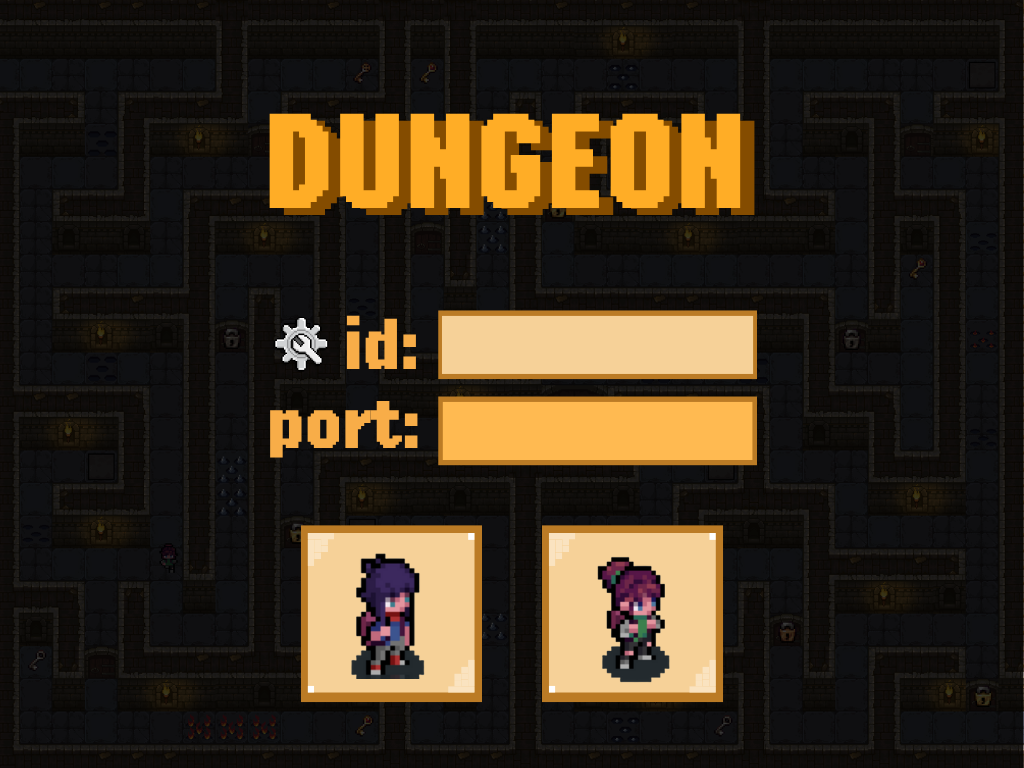
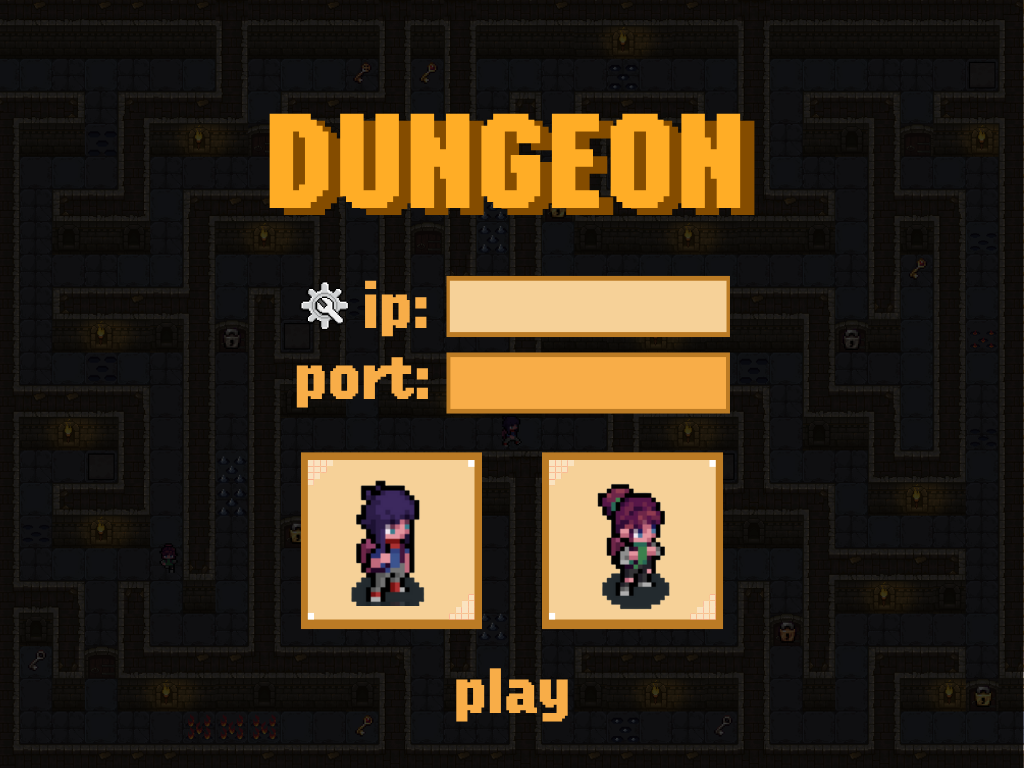
fixed menu stuff

Changed region(s): [[0.25, 0.3438, 0.75, 0.9375]]

diff --git a/MenuFrame.java b/MenuFrame.java
@@ -13,21 +13,20 @@ public class MenuFrame extends JComponent implements MouseMotionListener, MouseL
     public Socket socket;
 
     private BufferedImage staticMenu, hovered_boy, hovered_girl, hovered_id, hovered_port;
-    private Rectangle hoverBoxHost, hoverBoxPort, hoverBoxG, hoverBoxB;
+    private Rectangle hoverBoxHost, hoverBoxPort, hoverBoxG, hoverBoxB, hoverBoxPlay;
     private JTextField hostInput, portInput;
-    private boolean isHoveringHost = false, isHoveringPort = false, 
-                    isHoveringGirl = false, isHoveringBoy = false;
+    private boolean isHoveringHost = false, isHoveringPort = false, isHoveringGirl = false, 
+                    isHoveringBoy = false, isHoveringPlay = false, isBoySelected = false, isGirlSelected = false;
 
     public MenuFrame(){
-        hoverBoxHost = new Rectangle(442,316, 311,58);
-        hoverBoxPort = new Rectangle(442,401, 311,58);
-        hoverBoxB = new Rectangle(308,533, 167,160);
-        hoverBoxG = new Rectangle(548,533, 167,160);
+        hoverBoxHost = new Rectangle(449,280, 277,51);
+        hoverBoxPort = new Rectangle(447,357, 279,52);
+        hoverBoxB = new Rectangle(307,460, 167,160);
+        hoverBoxG = new Rectangle(548,460, 167,160);
+        hoverBoxPlay = new Rectangle(450, 662, 125, 65);
 
         hostInput = new JTextField(8);
         portInput = new JTextField(8);
-        hostInput.setVisible(false);
-        portInput.setVisible(false);
         
         Font font = new Font("SubVarioOTW03-CondFat", Font.PLAIN, 45);
         try {
@@ -49,6 +48,21 @@ public class MenuFrame extends JComponent implements MouseMotionListener, MouseL
         getImages();
         addMouseMotionListener(this);
         addMouseListener(this);
+    }
+
+    public void setUpGUI(){
+        frame = new JFrame("Maze Game");
+        frame.setLayout(null);
+        frame.setPreferredSize(new Dimension(1024, 768));
+        frame.setContentPane(this);
+        frame.add(hostInput);
+        frame.add(portInput);
+        frame.pack();
+        frame.setFocusable(true);
+        frame.requestFocusInWindow();
+        frame.setDefaultCloseOperation(JFrame.EXIT_ON_CLOSE);
+        frame.setLocationRelativeTo(null);
+        frame.setVisible(true);
     }
 
      public void getImages(){
@@ -77,64 +91,23 @@ public class MenuFrame extends JComponent implements MouseMotionListener, MouseL
             g.drawImage(hovered_port, 0, 0, null);
         }
 
-        if (isHoveringGirl){
+        if (isHoveringGirl || isGirlSelected){
             g.drawImage(hovered_girl, 0, 0, null);
         }
 
-        if (isHoveringBoy){
+        if (isHoveringBoy || isBoySelected){
             g.drawImage(hovered_boy, 0, 0, null);
         }
-    }
-
-    public void setUpGUI(){
-        frame = new JFrame("Maze Game");
-        frame.setLayout(null);
-        frame.setPreferredSize(new Dimension(1024, 768));
-        frame.setContentPane(this);
-        frame.add(hostInput);
-        frame.add(portInput);
-        frame.pack();
-        frame.setFocusable(true);
-        frame.requestFocusInWindow();
-        frame.setDefaultCloseOperation(JFrame.EXIT_ON_CLOSE);
-        frame.setLocationRelativeTo(null);
-        frame.setVisible(true);
     }
 
     public void end() {
         frame.dispose();
     }
 
-    public void setUpInputListeners() {
-        hostInput.addActionListener(new ActionListener() {
-            @Override
-            public void actionPerformed(ActionEvent e){
-                host = hostInput.getText();
-                System.out.println("host: " + host);
-                hostInput.setVisible(false);
-            }
-        });
-
-        portInput.addActionListener(new ActionListener(){
-            @Override
-            public void actionPerformed(ActionEvent e){
-                port = Integer.parseInt(portInput.getText());
-                System.out.println("port: " + port);
-                portInput.setVisible(false); 
-            }
-        });
-
-        // ActionListener buttonListener = new ActionListener() {
-        //     @Override
-        //     public void actionPerformed(ActionEvent ae) {
-        //         Object o = ae.getSource();
-        //         if (o == connect) {
-        //             connect();
-        //         }
-        //     }  
-        // };
-
-        // connect.addActionListener(buttonListener);
+    public void connect() {
+        LevelManager lm = new LevelManager(host, port, playerType, 1, this);
+        System.out.println("yes");
+        lm.start();
     }
 
     @Override
@@ -143,73 +116,89 @@ public class MenuFrame extends JComponent implements MouseMotionListener, MouseL
         isHoveringPort = hoverBoxPort.contains(e.getPoint());
         isHoveringBoy = hoverBoxB.contains(e.getPoint());
         isHoveringGirl = hoverBoxG.contains(e.getPoint());
+        isHoveringPlay = hoverBoxPlay.contains(e.getPoint());
         repaint();
     }
 
-
     @Override
-    public void mouseClicked(MouseEvent e) {
-        hostInput.setVisible(false);
-        portInput.setVisible(false);
+    public void mousePressed(MouseEvent e) {
 
-        if (hoverBoxHost.contains(e.getPoint())){
-            hostInput.setBounds(439,313, 318,64);
+        if (isHoveringHost){
+            hostInput.setBounds(447,280, 282,52);
             hostInput.setVisible(true);
             hostInput.requestFocusInWindow();
-            checkInputs();
         }
 
-        if (hoverBoxPort.contains(e.getPoint())){
-            portInput.setBounds(439,401, 318,64);
+        if (isHoveringPort){
+            portInput.setBounds(447,357, 282,52);
             portInput.setVisible(true);
             portInput.requestFocusInWindow();
-            checkInputs();
         }
 
-        if (hoverBoxB.contains(e.getPoint())){
+        if (isHoveringBoy){
             playerType = "boy";
-            checkInputs();
-            // repaint();
-            System.out.println("playerType: " + playerType);
+            isBoySelected = true;
         }
 
-        if (hoverBoxG.contains(e.getPoint())){
+        if (isHoveringGirl){
             playerType = "girl";
-            checkInputs();
-            // repaint();
-            System.out.println("playerType: " + playerType);
+            isGirlSelected = true;
         } 
-        
-        // if (host == "localhost" && port == 9999 && playerType != null){
-        //     connect();
-        // }
-    }
 
-    @Override
-    public void mouseDragged(MouseEvent e) {}
-    @Override
-    public void mousePressed(MouseEvent e) {}
+        if (isHoveringPlay){
+            host = hostInput.getText();
+            port = Integer.parseInt(portInput.getText());
+
+            if (host != null && port > 0 && playerType != null){
+                connect();
+            } else {
+                System.out.println("fill out fields");
+            }
+        }
+    }
     @Override
     public void mouseReleased(MouseEvent e) {}
     @Override
     public void mouseEntered(MouseEvent e) {}
     @Override
     public void mouseExited(MouseEvent e) {}
+    @Override
+    public void mouseClicked(MouseEvent e) {}
+    @Override
+    public void mouseDragged(MouseEvent e) {}
 
-    private void checkInputs(){
-        if (host != null && port > 0 && playerType != null){
-            connect();
-        }
-    }
 
-    public void connect() {
-        // host = hostInput.getText();
-        // port = Integer.parseInt(portInput.getText());
-        // playerType = playerInput.getText();
-        LevelManager lm = new LevelManager(host, port, playerType, 1, this);
-        System.out.println("yes");
-        lm.start();
-    }
+    // public void setUpInputListeners() {
+    //     hostInput.addActionListener(new ActionListener() {
+    //         @Override
+    //         public void actionPerformed(ActionEvent e){
+    //             host = hostInput.getText();
+    //             System.out.println("host: " + host);
+    //         }
+    //     });
+
+    //     portInput.addActionListener(new ActionListener(){
+    //         @Override
+    //         public void actionPerformed(ActionEvent e){
+    //             port = Integer.parseInt(portInput.getText());
+    //             System.out.println("port: " + port);
+    //         }
+    //     });
+    // public void setUpButtonListeners(){
+    //     ActionListener buttonListener = new ActionListener() {
+    //             @Override
+    //             public void actionPerformed(ActionEvent ae) {
+    //                 Object o = ae.getSource();
+    //                 if (o == play) {
+    //                     connect();
+    //                 }
+    //             }  
+    //         };
+
+    //        play.addMouseListener(buttonListener);
+    // }
+    
+    // }
 
     // public void test(String sex) {
     //     frame = new JFrame();

diff --git a/GameCanvas.java b/GameCanvas.java
@@ -22,7 +22,7 @@ public class GameCanvas extends JComponent implements KeyListener {
 
     public GameCanvas(int level, ArrayList<Obstacle> obstacles, ArrayList<InteractableObjects> interactables){
         switch(level){
-            case 5:
+            case 1:
                 tileMap = "assets/maps/tileMap1.txt";
                 break;
             case 2:
@@ -34,7 +34,7 @@ public class GameCanvas extends JComponent implements KeyListener {
             case 4:
                 tileMap = "assets/maps/tileMap4.txt";
                 break;
-            case 1:
+            case 5:
                 tileMap = "assets/maps/tileMap5.txt";
                 break;
 
@@ -83,11 +83,11 @@ public class GameCanvas extends JComponent implements KeyListener {
     public void addLevel(int level) {
         System.out.println("player killed, adding level: " + level);
         switch(level){
-            case 5 -> tileMap = "assets/maps/tileMap1.txt";
+            case 1 -> tileMap = "assets/maps/tileMap1.txt";
             case 2 -> tileMap = "assets/maps/tileMap2.txt";
             case 3 -> tileMap = "assets/maps/tileMap3.txt";
             case 4 -> tileMap = "assets/maps/tileMap4.txt";
-            case 1 -> tileMap = "assets/maps/tileMap5.txt";
+            case 5 -> tileMap = "assets/maps/tileMap5.txt";
 
         }
         map = new Map(tileMap);
@@ -135,7 +135,9 @@ public class GameCanvas extends JComponent implements KeyListener {
     public void keyReleased(KeyEvent e) {
         if (e.getKeyCode() == KeyEvent.VK_E){
             checkKeys(player1);   
-            checkLocks(player1);       
+            checkLocks(player1);
+            popUps.setFalse();  
+            System.out.println(popUps.showPopUp);   
         }
     }
 

diff --git a/LevelManager.java b/LevelManager.java
@@ -74,7 +74,7 @@ public class LevelManager {
         obstacles.clear();
         interactables.clear();
         switch(level){
-            case 5:
+            case 1:
 
                 obstacles.add(new Traps("spike", 352, 382, 32, 32, 10));
                 obstacles.add(new Traps("fire", 97, 314, 32, 32, 6));
@@ -306,7 +306,7 @@ public class LevelManager {
                 // }
 
                 break;
-            case 1:
+            case 5:
 
                 // top
                 for (int i = 0; i < 20; i++){

diff --git a/PopUps.java b/PopUps.java
@@ -5,7 +5,7 @@ import javax.imageio.ImageIO;
 
 public class PopUps {
     private BufferedImage GamePlay, GameOver, YouDied;
-    private boolean showPopUp = false;
+    public boolean showPopUp = false;
     private int counter = 0;
     private int duration = 600;
     private GameCanvas gc;
@@ -39,6 +39,10 @@ public class PopUps {
     public void showPopUp(){
         showPopUp = true;
         counter = 0;
+    }
+
+    public Boolean setFalse(){
+        return showPopUp = false;
     }
 
     public void update(){

diff --git a/GameStarter.java b/GameStarter.java
@@ -2,8 +2,5 @@ public class GameStarter {
     public static void main(String[] args){
         MenuFrame mf = new MenuFrame();
         mf.setUpGUI();
-        mf.setUpInputListeners();
-        // mf.setUpButtonListeners();
-        // mf.setUpGUI("hi bb, put localhost in the first text field and 9999 in the second!");
     }
 }
